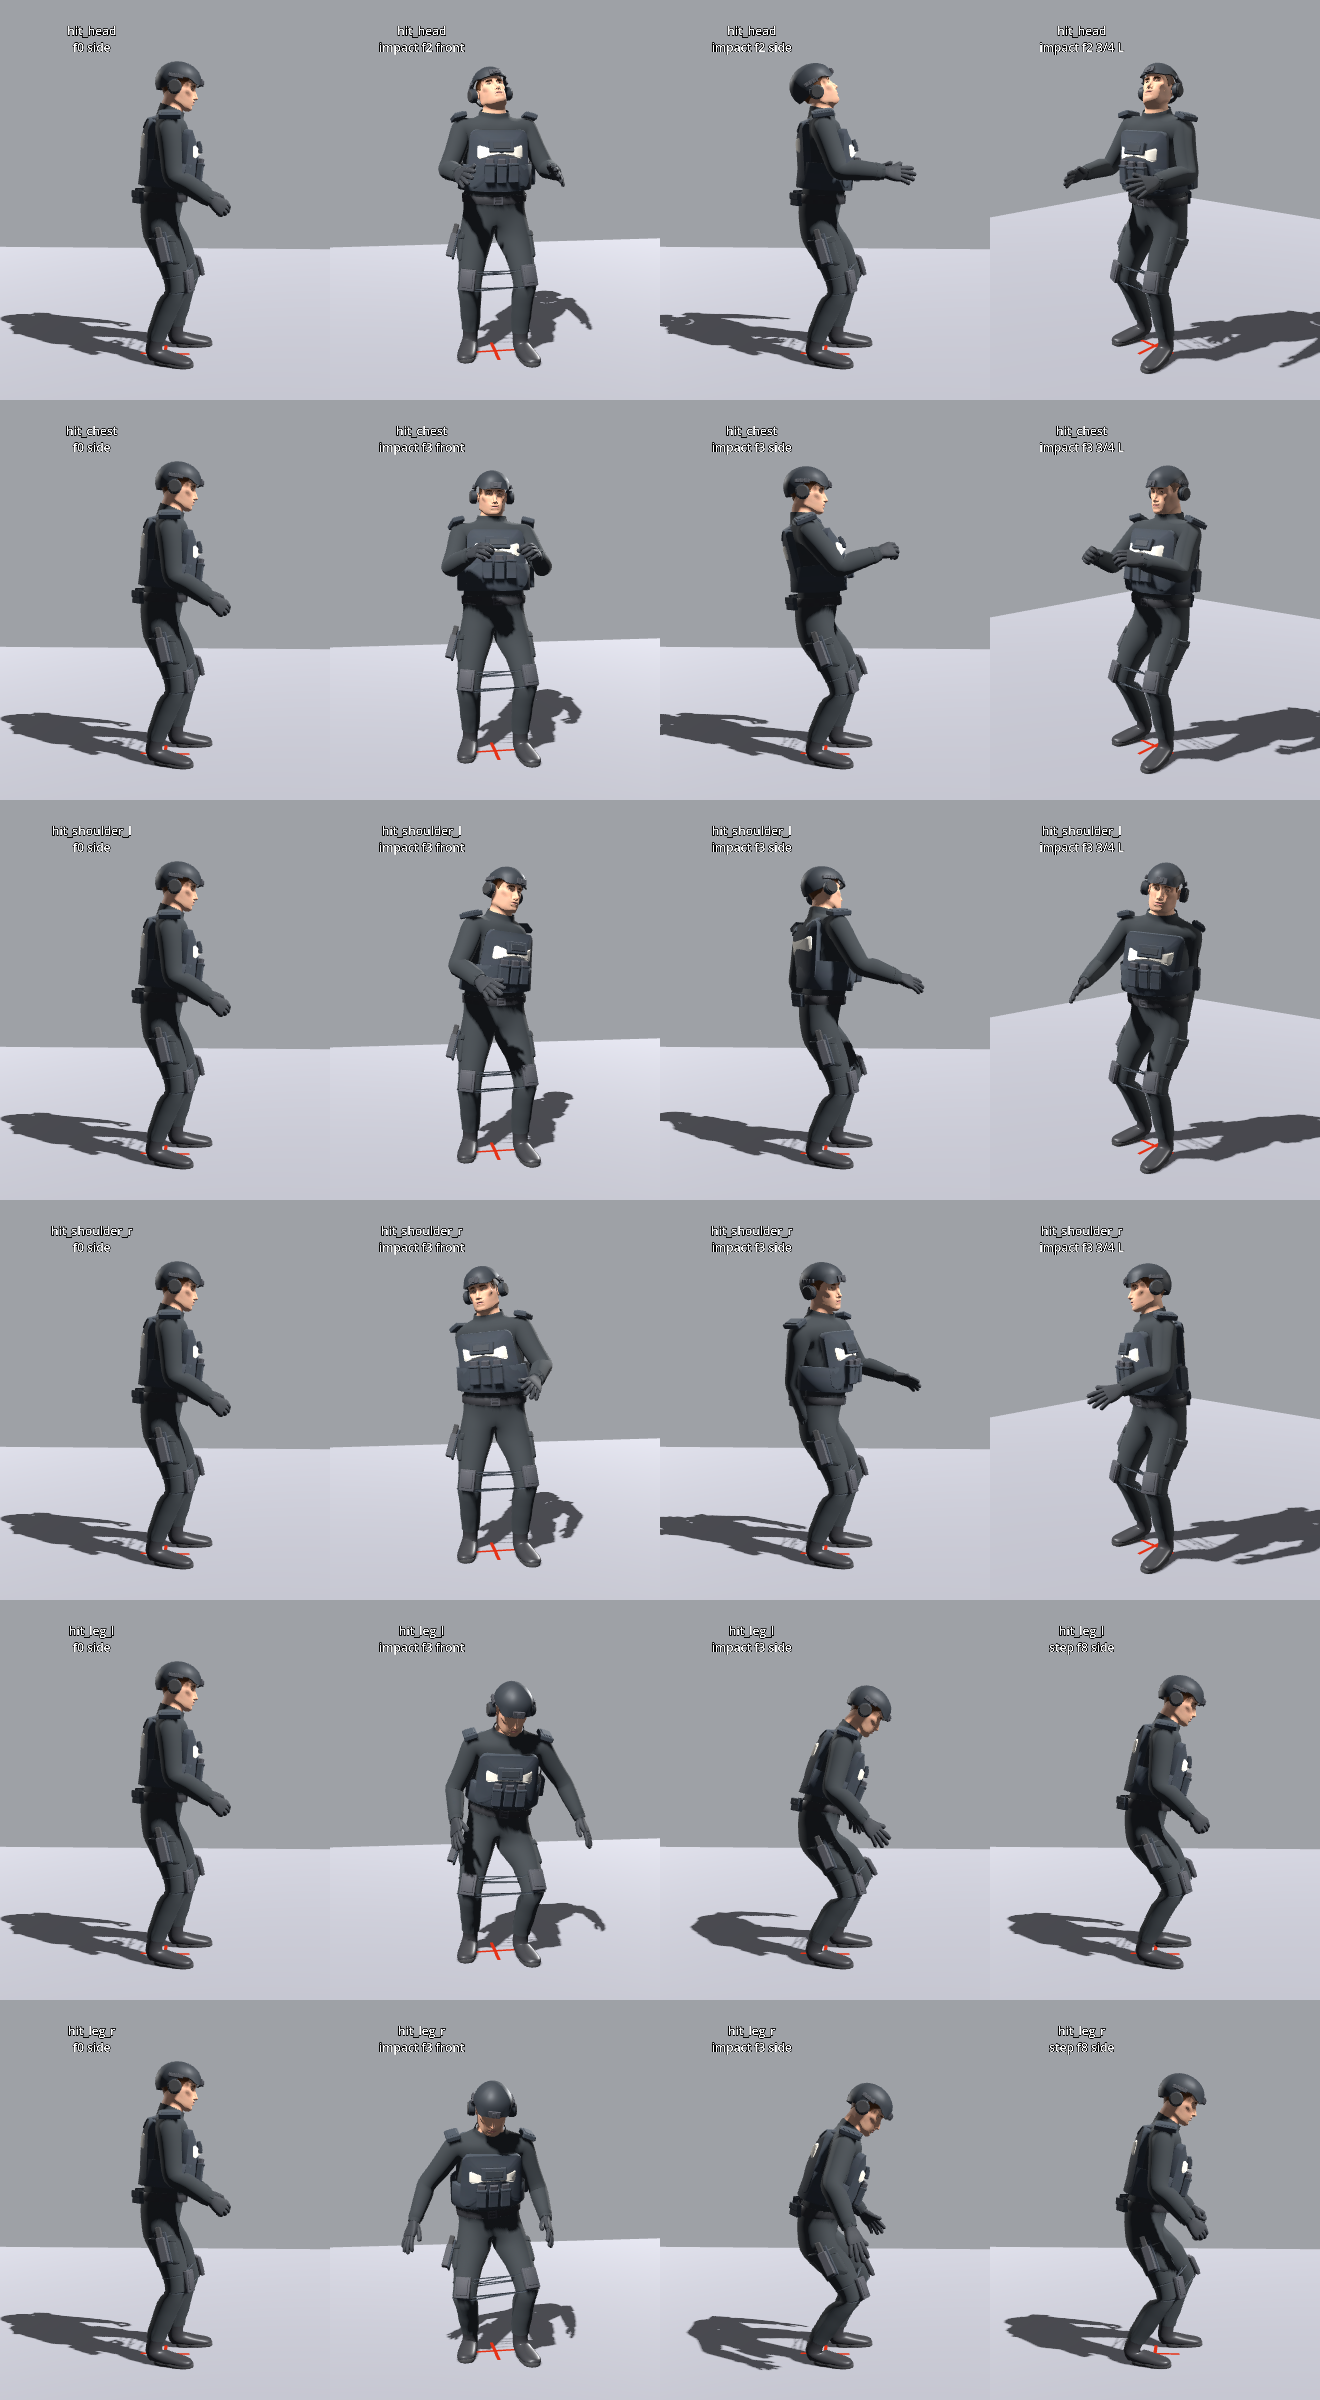
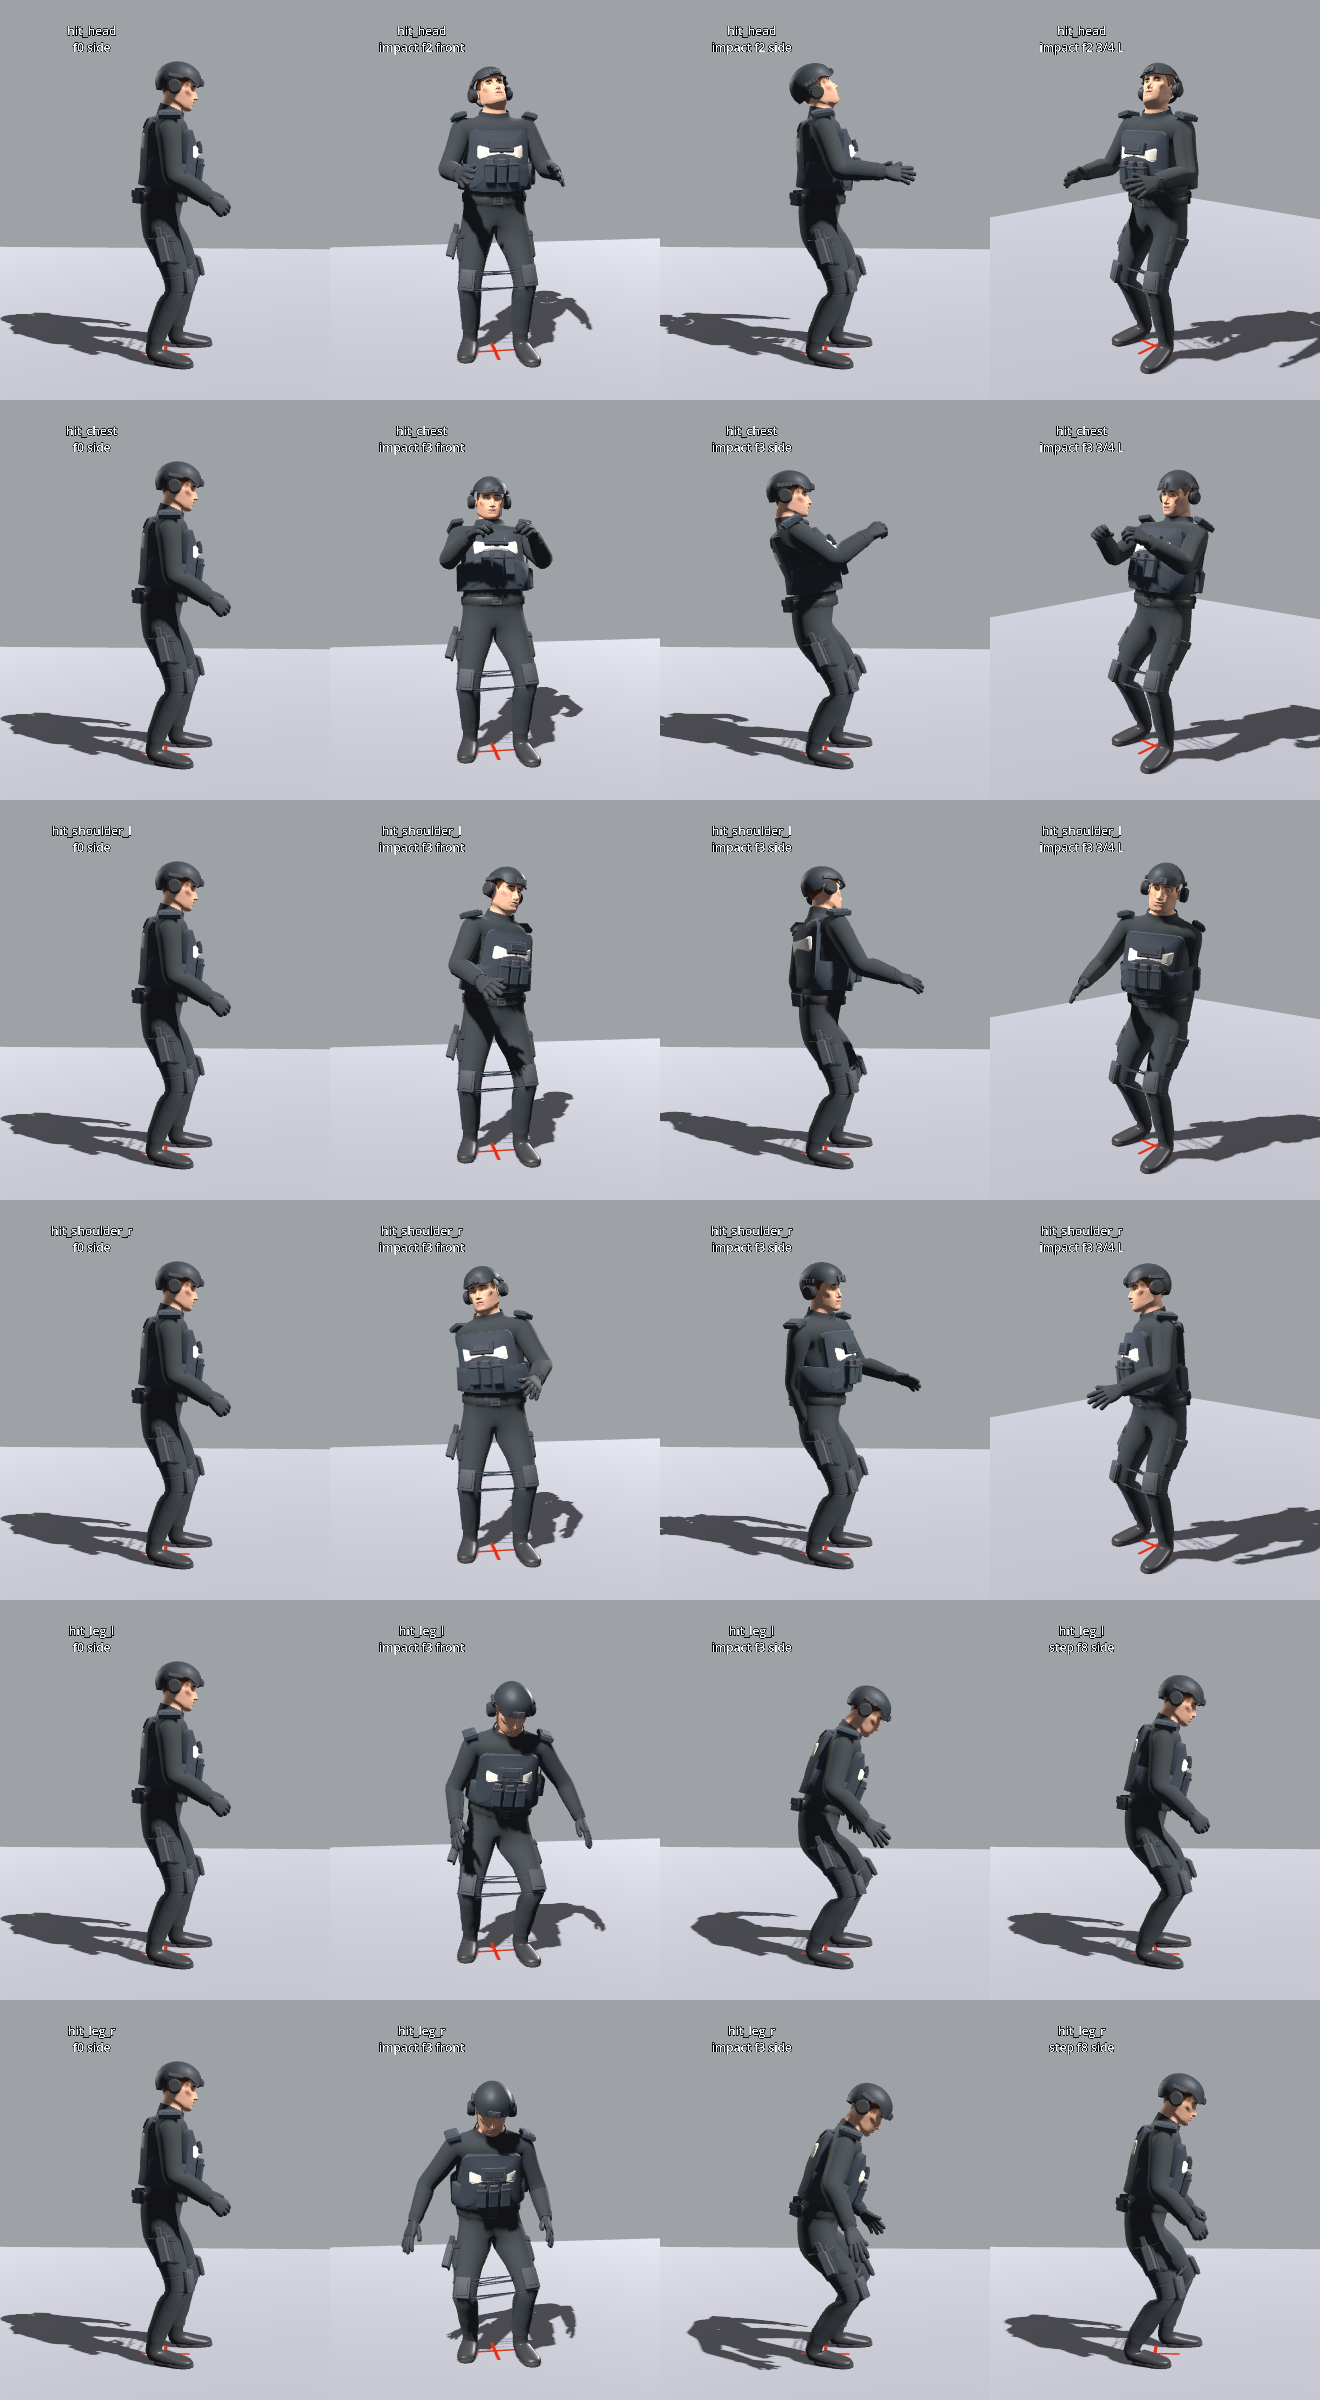
[D-116] hit_chest: a stronger centre-mass jolt (lead review: it read weakest of the six)
Hips 5.5 cm back / 3.5 cm down (was 3.5 / 2.8), chest pitch back 15 deg (was 10), more head lag and arm curl.
Same frames and impact event; test_hit_zones and test_anims pass. Review sheet re-rendered.

Claude-Session: https://claude.ai/code/session_016xjLH3KQNyUH4ZRyseSDR6

diff --git a/tools/blender/characters/_anim_hitzones.py b/tools/blender/characters/_anim_hitzones.py
@@ -90,14 +90,15 @@ def hit_chest(sk: Skeleton, solver: Solver, N: int, impact: int) -> Keys:
     k = sk.scale
     base = _src(sk, solver)
     jolt = base.copy()
-    jolt.hip = jolt.hip + v3(0.0, -0.035 * k, -0.028 * k)
-    trunk(jolt, "hips", pitch=-3.0)
-    trunk(jolt, "spine", pitch=-6.0)
-    trunk(jolt, "chest", pitch=-10.0)
-    trunk(jolt, "neck", pitch=6.0)
-    trunk(jolt, "head", pitch=5.0)
+    # lead review: a stronger punch than the first cut (hips 3.5 cm / chest 10 deg back read weakest of the six)
+    jolt.hip = jolt.hip + v3(0.0, -0.055 * k, -0.035 * k)
+    trunk(jolt, "hips", pitch=-5.0)
+    trunk(jolt, "spine", pitch=-9.0)
+    trunk(jolt, "chest", pitch=-15.0)
+    trunk(jolt, "neck", pitch=9.0)
+    trunk(jolt, "head", pitch=8.0)
     for sfx, _sx in A.SIDES:
-        arm(sk, jolt, sfx, "claw", 0.8, add=-8.0, swing=14.0, flex=24.0, twist=8.0, clav_fwd=6.0)
+        arm(sk, jolt, sfx, "claw", 0.85, add=-12.0, swing=18.0, flex=28.0, twist=8.0, clav_fwd=9.0)
     curl = base.copy()
     curl.hip = curl.hip + v3(0.0, -0.018 * k, -0.03 * k)
     trunk(curl, "hips", pitch=-1.0)
